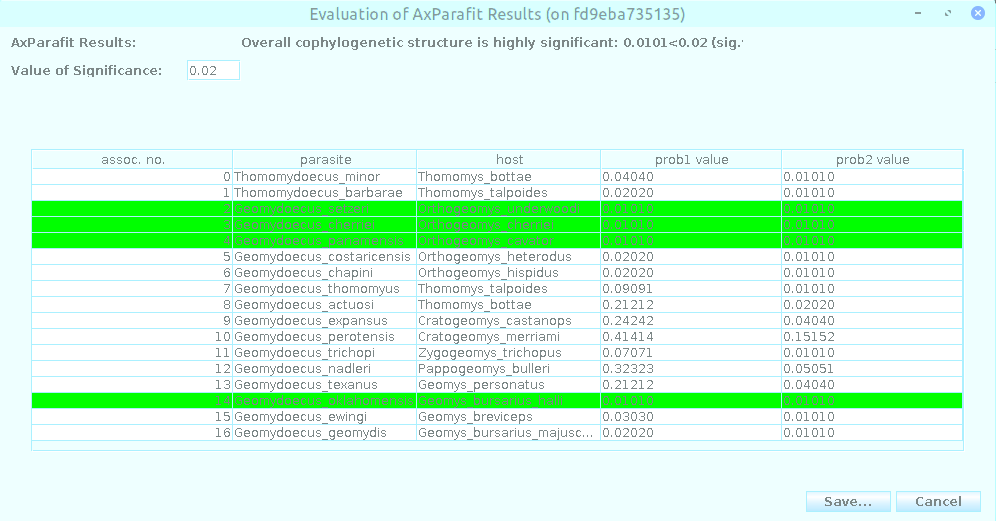
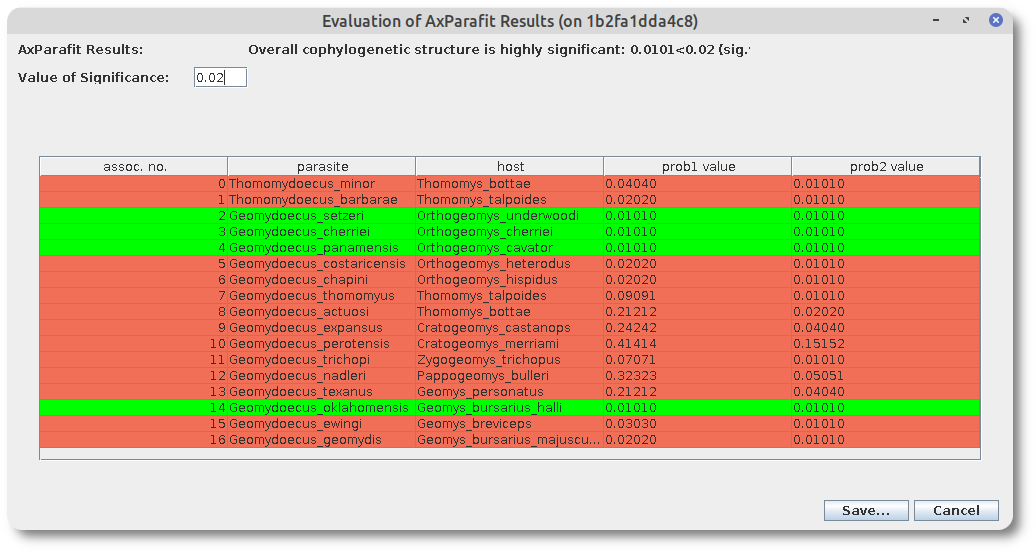
[CHANGED] updated images, figure captions

diff --git a/README.md b/README.md
@@ -5,9 +5,9 @@
 </p>
 
 <!-- ABOUT THE PROJECT -->
-## About
+# About
 
-[![Copycat](images/tanglegram_final.png)](https://www.cophylogenetics.com/)
+[![Copycat](images/copycat_tanglegram_logo.png)](https://www.cophylogenetics.com/)
 
 CopyCat provides an easy and fast access to cophylogenetic analyses. It incorporates a wrapper for the program AxParaFit, which conducts a statistical test for the presence of congruence between host and parasite phylogenies.
 
@@ -23,7 +23,7 @@ Testing was only done on a Linux host machine, i.e., compatibility on Mac or Win
 
 <p align="right">(<a href="#readme-top">back to top</a>)</p>
 
-### Built With
+# Built With
 
 ![Java](https://img.shields.io/badge/java-%23ED8B00.svg?style=for-the-badge&logo=java&logoColor=white)
 ![Docker](https://img.shields.io/badge/docker-%230db7ed.svg?style=for-the-badge&logo=docker&logoColor=white)
@@ -32,18 +32,39 @@ Testing was only done on a Linux host machine, i.e., compatibility on Mac or Win
 
 <!-- GETTING STARTED -->
 
-## Getting Started
+# Getting Started
 
-### Prerequisites
+## Prerequisites
 
-Install docker on your Linux system and check the installation via `docker -v`.
-Something like this should appear (version numbers can vary of course):
+> **_Disclaimer:_**  For now, I have only tested the dockerized version of Copycat on a Linux host system. I will update this section once I got hold of a Windows or Mac test system. (You are welcome to test it on such systems and to give feedback, of course. Thanks for that.)
 
+<a href="https://docs.docker.com/engine/install/">Install docker</a> on your Linux system and make sure that your user is <a href="https://docs.docker.com/engine/install/linux-postinstall/">properly configured</a> for use with Docker:
+
+For example, the command ...
+```bash
+docker -v
+```
+... should produce a text similar to this (except the version numbers of course):
 ```text
 Docker version 20.10.12, build 20.10.12-0ubuntu2~20.04.1
 ```
 
-### Installation
+Also, the command ...
+
+```bash
+docker run hello-world
+```
+
+... should produce a text containing the lines:
+
+```text
+[...]
+Hello from Docker!
+This message shows that your installation appears to be working correctly.
+[...]
+```
+
+## Installation
 
 1.  Clone the Copycat repository:
 
@@ -104,13 +125,14 @@ The work on the <a href="https://doi.org/10.1080/10635150252899734">original Par
 
 For example, when testing at a more strict $\alpha$ = 0.02 only 4 significant links are reported (see Fig. 1).
 
-**Note:** because of the quirky user interface, changes in the "Value of Significance" field will be visually applied once the result window is rendered again (can be triggered by e.g. resizing the results window or by changing the width of an arbitrary column). By far not optimal, but works.
+**Note:** because of the quirky user interface, changes in the "Value of Significance" field will be visually applied once the result window is rendered again (can be triggered by e.g. resizing the results window or by changing the width of an arbitrary column). By far not optimal, but it works.
 
-![**Figure 1 -- Copycat result view when testing at $\alpha$ = 0.02.** 
+![**Figure 1 -- Visualization of the AxParafit results done by Copycat when testing at $\alpha$ = 0.02.** The column 'prob1' refers to the statistic 'ParaFitLink1', whereas 'prob2' refers to the statistic 'ParaFitLink2'. Both statistics were introduced in the <a href="https://doi.org/10.1080/10635150252899734">original Parafit method</a>. Simulations <a href="https://doi.org/10.1080/10635150252899734">conducted</a> with larger numbers of hosts and parasites and more links showed that power of the 'ParaFitLink1' and 'ParaFitLink2' tests increased with increasing host and parasite sample sizes.
+for given proportions of coevolutionary links. The statistics 'ParaFitLink1' and 'ParaFitLink2' both have their usefulness. 'ParaFitLink1' has greater power for correctly detecting coevolutionary links in saturated coevolutionary models that contain additional random links, whereas 'ParaFitLink2' has greater power for correctly detecting coevolutionary links in unsaturated coevolutionary models, in which only a fraction of the links are coevolutionary and the other links are random. 'ParaFitLink2' cannot be used in perfect coevolutionary situations because its denominator is then zero.
 \label{fig:01}](images/Parafit_expected_significant_links_at_alpha_0.02__gopher_lice_example_dataset.png)
 
 
-## Citations
+# Citations
 
 For the Copycat tool please cite:
 ```text
@@ -127,7 +149,7 @@ Stamatakis A, Auch AF, Meier-Kolthoff JP, Göker M. AxPcoords & parallel AxParaf
 
 <!-- LICENSE -->
 
-## Terms of Usage
+# Terms of Usage
 
 Use of the program is free for academic purposes at an academic institute. For all other uses, please <a href="https://www.cophylogenetics.com/contact/">contact the authors</a>. The authors do not have any kind of commercial interest in connection with the Copycat software.
 
@@ -135,7 +157,7 @@ Use of the program is free for academic purposes at an academic institute. For a
 
 <!-- CONTACT -->
 
-## Contact
+# Contact
 
 * If the feedback concerns this project, please open an <a href="https://github.com/jmeierk/copycat/issues">issue</a> because others will likely benefit from this.
 * If you have general questions about Copycat, please contact me <a href="https://www.cophylogenetics.com/contact/">here</a>.
